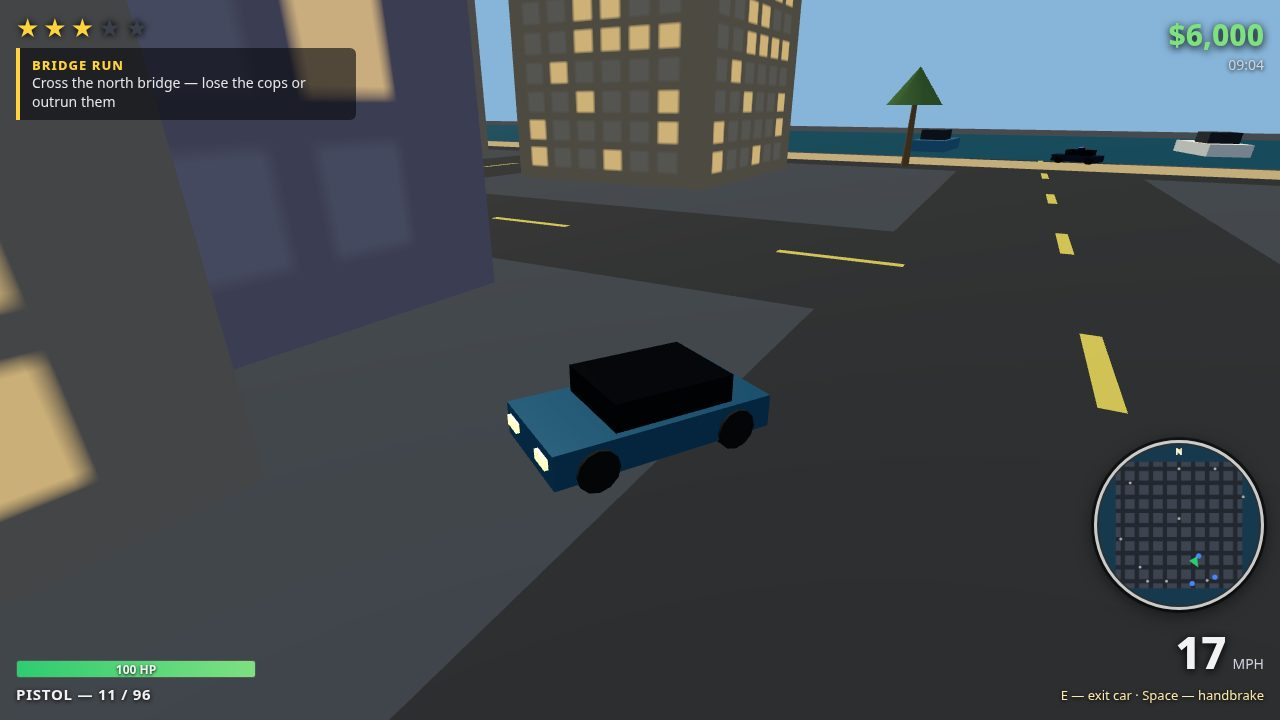
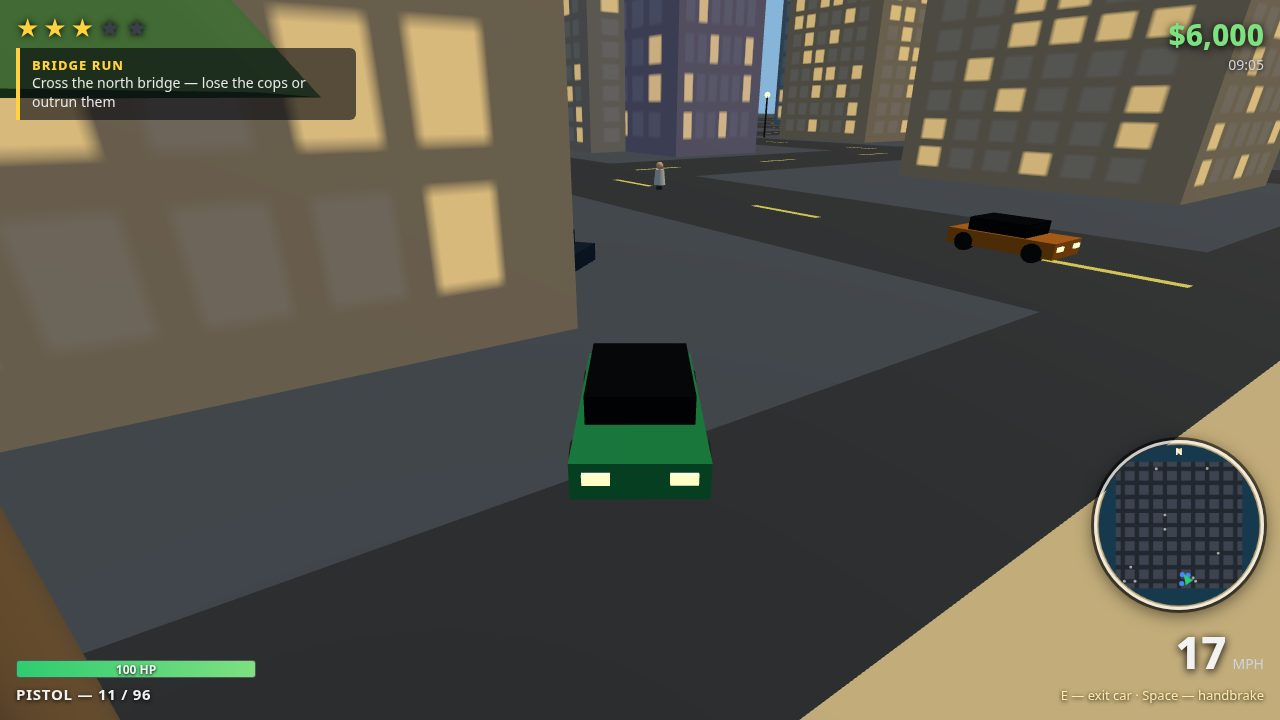
Faster camera catch-up in car; let camera settle before cover/chase shots

diff --git a/game/src/main.js b/game/src/main.js
@@ -544,7 +544,7 @@ function updateCamera(dt) {
   let dy = targetYaw - cam.yaw;
   while (dy > Math.PI) dy -= Math.PI * 2;
   while (dy < -Math.PI) dy += Math.PI * 2;
-  if (S.inCar) cam.yaw += dy * Math.min(1, dt * 1.6);
+  if (S.inCar) cam.yaw += dy * Math.min(1, dt * 4);
   const cx = px - Math.sin(cam.yaw) * cam.dist * Math.cos(cam.pitch);
   const cz = pz - Math.cos(cam.yaw) * cam.dist * Math.cos(cam.pitch);
   const cy = 2.2 + cam.dist * Math.sin(cam.pitch);
